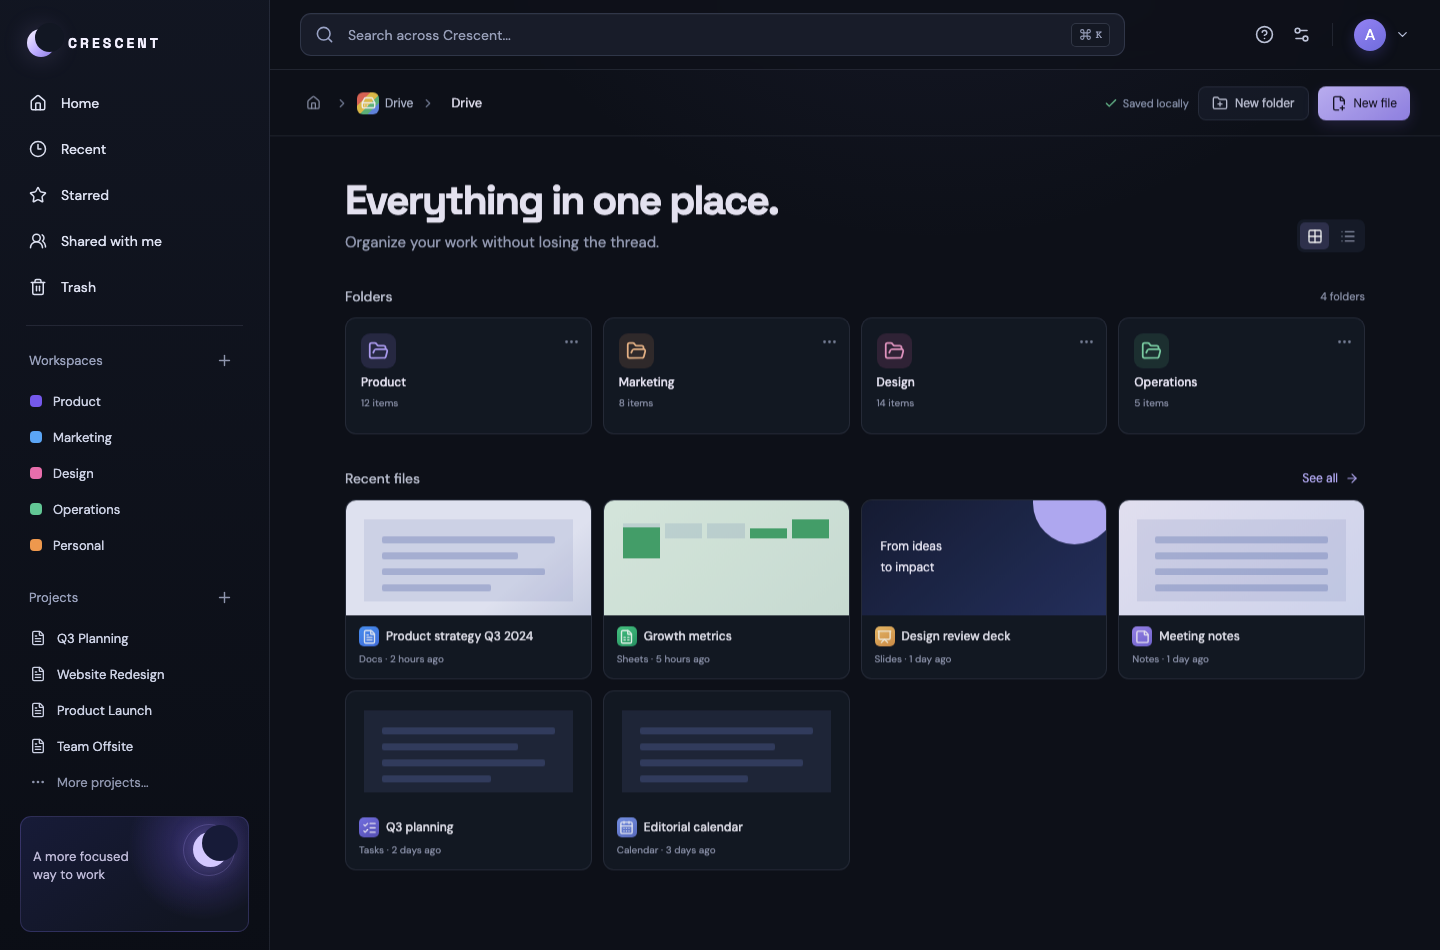
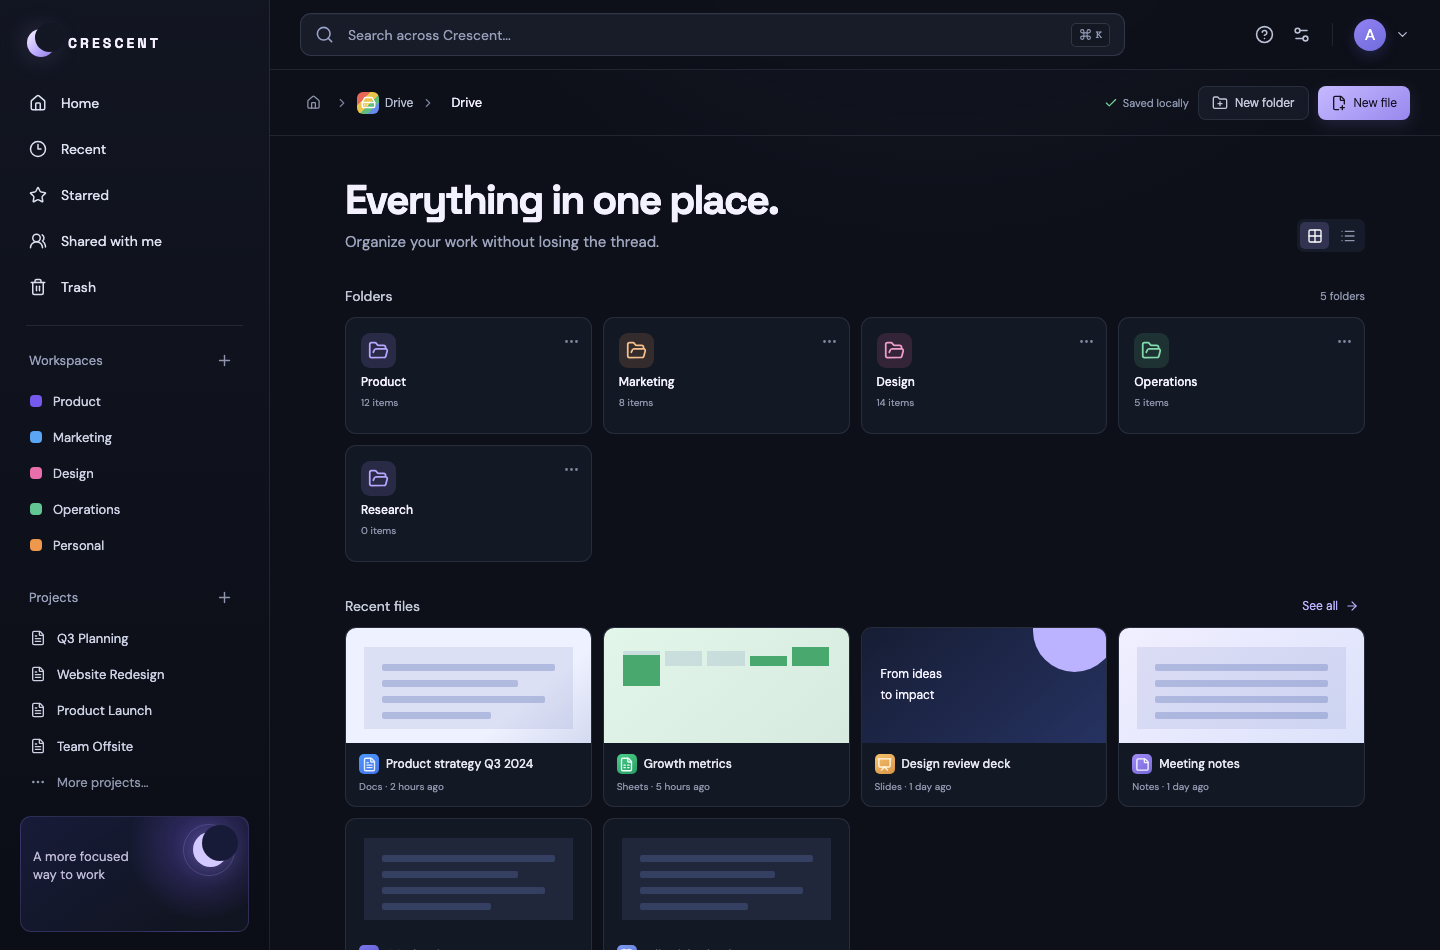
feat: persist local Drive folders

diff --git a/src/App.jsx b/src/App.jsx
@@ -109,6 +109,12 @@ const INITIAL_WORKSPACE = {
     { id: 2, label: "How clear is the next step?", type: "Scale", required: true },
     { id: 3, label: "Anything else to share?", type: "Short answer", required: false },
   ],
+  driveFolders: [
+    { name: "Product", items: 12, color: 0 },
+    { name: "Marketing", items: 8, color: 1 },
+    { name: "Design", items: 14, color: 2 },
+    { name: "Operations", items: 5, color: 3 },
+  ],
 };
 
 const RECENT_FILES = [
@@ -321,17 +327,17 @@ function DriveViewLegacy({ onNavigate }) {
   return <div className="drive-page page-enter"><EditorHeader title="Drive" icon={APP_META.find((app) => app.id === "drive")} onChangeTitle={() => {}} onNavigate={onNavigate}><button className="secondary-button"><FolderPlus size={16} />New folder</button><button className="primary-button"><FilePlus2 size={16} />New file</button></EditorHeader><div className="drive-content"><div className="drive-heading"><div><h1>Everything in one place.</h1><p>Organize your work without losing the thread.</p></div><div className="drive-view"><button className="selected"><Grid2X2 size={16} /></button><button><List size={16} /></button></div></div><div className="drive-section"><div className="drive-section-title"><span>Folders</span><small>4 folders</small></div><div className="folder-grid">{folders.map((folder, index) => <button className="folder-card" key={folder}><span className={`folder-icon folder-${index}`}><FolderOpen size={21} /></span><strong>{folder}</strong><small>{[12, 8, 14, 5][index]} items</small><MoreHorizontal size={17} /></button>)}</div></div><div className="drive-section"><div className="drive-section-title"><span>Recent files</span><button className="text-link">See all <ArrowRight size={14} /></button></div><div className="drive-file-grid">{RECENT_FILES.slice(0, 6).map((file) => <button className="drive-file" key={file.title} onClick={() => onNavigate(file.type.toLowerCase())}><div className={`drive-file-preview preview-${file.color}`}><PreviewArt type={file.type} /></div><div><AppIcon app={{ ...file, id: file.type.toLowerCase() }} size={15} /><strong>{file.title}</strong></div><small>{file.type} · {file.opened}</small></button>)}</div></div></div></div>;
 }
 
-function DriveView({ onNavigate }) {
-  const [folders, setFolders] = useState([
+function DriveView({ workspace, update, onNavigate }) {
+  const folders = workspace.driveFolders ?? [
     { name: "Product", items: 12, color: 0 },
     { name: "Marketing", items: 8, color: 1 },
     { name: "Design", items: 14, color: 2 },
     { name: "Operations", items: 5, color: 3 },
-  ]);
+  ];
   const createFolder = () => {
     const name = window.prompt("Folder name", "New workspace");
     if (!name?.trim()) return;
-    setFolders((current) => [...current, { name: name.trim(), items: 0, color: current.length % 4 }]);
+    update({ driveFolders: [...folders, { name: name.trim(), items: 0, color: folders.length % 4 }] });
   };
   return <div className="drive-page page-enter"><EditorHeader title="Drive" icon={APP_META.find((app) => app.id === "drive")} onChangeTitle={() => {}} onNavigate={onNavigate}><button className="secondary-button" onClick={createFolder}><FolderPlus size={16} />New folder</button><button className="primary-button" onClick={() => onNavigate("docs")}><FilePlus2 size={16} />New file</button></EditorHeader><div className="drive-content"><div className="drive-heading"><div><h1>Everything in one place.</h1><p>Organize your work without losing the thread.</p></div><div className="drive-view"><button className="selected"><Grid2X2 size={16} /></button><button><List size={16} /></button></div></div><div className="drive-section"><div className="drive-section-title"><span>Folders</span><small>{folders.length} folders</small></div><div className="folder-grid">{folders.map((folder) => <button className="folder-card" key={folder.name}><span className={`folder-icon folder-${folder.color}`}><FolderOpen size={21} /></span><strong>{folder.name}</strong><small>{folder.items} items</small><MoreHorizontal size={17} /></button>)}</div></div><div className="drive-section"><div className="drive-section-title"><span>Recent files</span><button className="text-link">See all <ArrowRight size={14} /></button></div><div className="drive-file-grid">{RECENT_FILES.slice(0, 6).map((file) => <button className="drive-file" key={file.title} onClick={() => onNavigate(file.type.toLowerCase())}><div className={`drive-file-preview preview-${file.color}`}><PreviewArt type={file.type} /></div><div><AppIcon app={{ ...file, id: file.type.toLowerCase() }} size={15} /><strong>{file.title}</strong></div><small>{file.type} · {file.opened}</small></button>)}</div></div></div></div>;
 }
@@ -413,7 +419,7 @@ export default function App() {
     if (activeApp === "notes") return <NotesView workspace={workspace} update={update} onNavigate={navigate} />;
     if (activeApp === "tasks") return <TasksView workspace={workspace} update={update} onNavigate={navigate} />;
     if (activeApp === "calendar") return <CalendarView onNavigate={navigate} />;
-    if (activeApp === "drive") return <DriveView onNavigate={navigate} />;
+    if (activeApp === "drive") return <DriveView workspace={workspace} update={update} onNavigate={navigate} />;
     if (activeApp === "forms") return <FormsView workspace={workspace} update={update} onNavigate={navigate} />;
     return <UtilityView id={activeApp} onNavigate={navigate} />;
   }, [activeApp, workspace]);

diff --git a/CHANGELOG.md b/CHANGELOG.md
@@ -1,5 +1,19 @@
 # Changelog
 
+## v0.1.5 — Persistent Drive
+
+Published September 8, 2026.
+
+### Changed
+
+- Drive folders now persist in Crescent's versioned browser workspace instead of resetting when you navigate away.
+- The Drive preview now shows the local folder workflow in the committed visual evidence.
+
+### Verification
+
+- Created a folder through the UI, navigated Home → Drive, and verified it remained visible.
+- Production build passes after the persistence change.
+
 ## v0.1.4 — Local Drive
 
 Published September 8, 2026.

diff --git a/README.md b/README.md
@@ -4,7 +4,7 @@ An all-in-one productivity workspace built to keep the work in one calm, consist
 
 ## Current release
 
-**v0.1.4 — Local Drive**
+**v0.1.5 — Persistent Drive**
 
 The first release establishes the Crescent product shell and a local-first suite experience:
 
